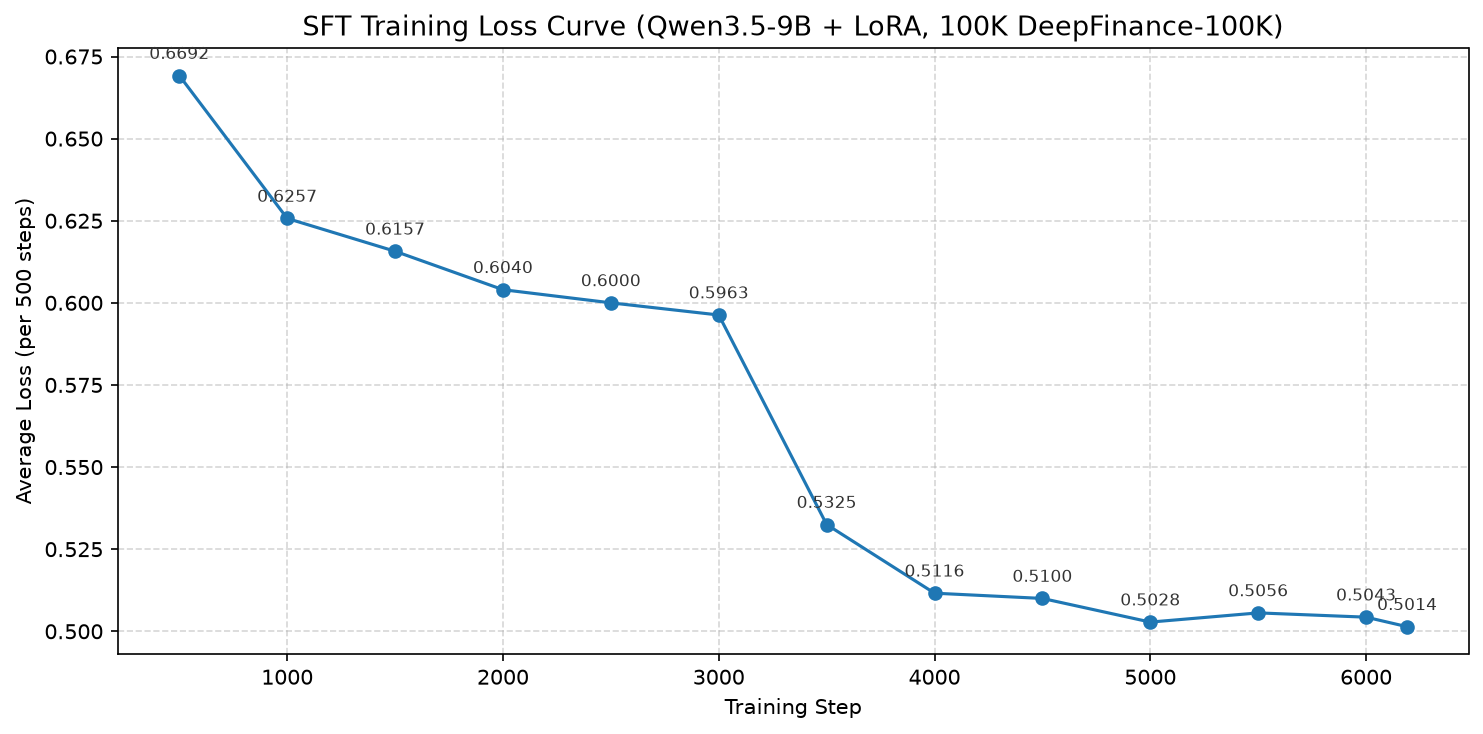
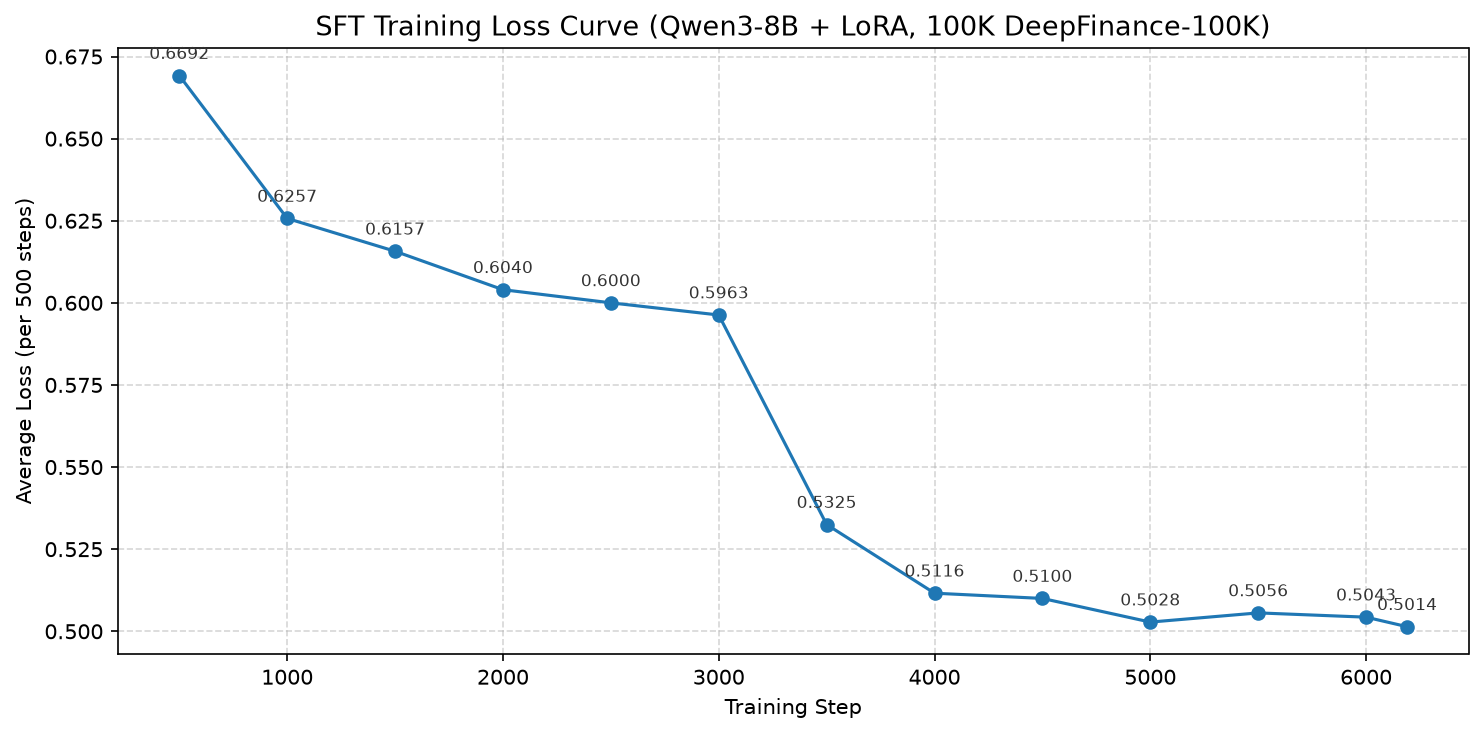
fix(sft): loss 曲线标题修正为 Qwen3-8B

Changed region(s): [[0.1861, 0.0, 0.8685, 0.0599]]

diff --git a/agentar-fin-r1/training/sft/plot_loss.py b/agentar-fin-r1/training/sft/plot_loss.py
@@ -1,0 +1,21 @@
+"""绘制 SFT loss 曲线"""
+
+import matplotlib.pyplot as plt
+
+steps = [500, 1000, 1500, 2000, 2500, 3000, 3500, 4000, 4500, 5000, 5500, 6000, 6190]
+loss = [0.6692, 0.6257, 0.6157, 0.6040, 0.6000, 0.5963, 0.5325, 0.5116, 0.5100, 0.5028, 0.5056, 0.5043, 0.5014]
+
+plt.figure(figsize=(10, 5))
+plt.plot(steps, loss, marker='o', linewidth=1.5, markersize=6, color='#1f77b4')
+plt.title('SFT Training Loss Curve (Qwen3-8B + LoRA, 100K DeepFinance-100K)', fontsize=13)
+plt.xlabel('Training Step')
+plt.ylabel('Average Loss (per 500 steps)')
+plt.grid(True, linestyle='--', alpha=0.5)
+plt.tight_layout()
+
+for x, y in zip(steps, loss):
+    plt.annotate(f'{y:.4f}', (x, y), textcoords='offset points', xytext=(0, 8),
+                 ha='center', fontsize=8, color='#333')
+
+plt.savefig('sft_loss_curve.png', dpi=150, bbox_inches='tight')
+print('Done')
